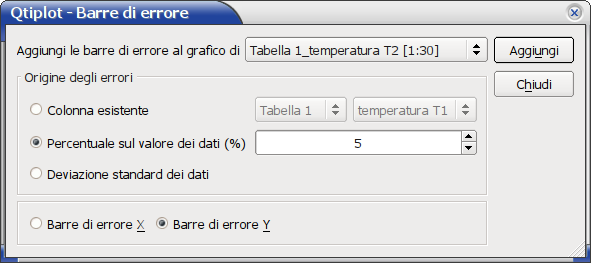
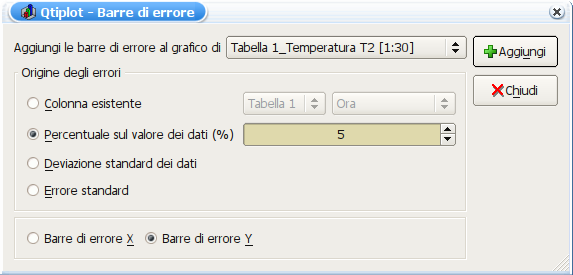
- Updated docbook-it and qtiplot-it rev2317
git-svn-id: http://svn.berlios.de/svnroot/repos/qtiplot/trunk@2318 5a6a7de5-fb12-0410-b871-c33778c25c60

Changed region(s): [[0.0, 0.0, 1.0, 1.0]]

diff --git a/qtiplot/translations/qtiplot_it.ts b/qtiplot/translations/qtiplot_it.ts
@@ -9582,7 +9582,7 @@ gli adattamenti lineari</translation>
     <message>
         <location filename="../src/plot2D/dialogs/ErrDialog.cpp" line="285"/>
         <source>Standard E&amp;rror</source>
-        <translation type="unfinished"></translation>
+        <translation>&amp;Errore standard</translation>
     </message>
     <message>
         <location filename="../src/plot2D/dialogs/ErrDialog.cpp" line="286"/>
